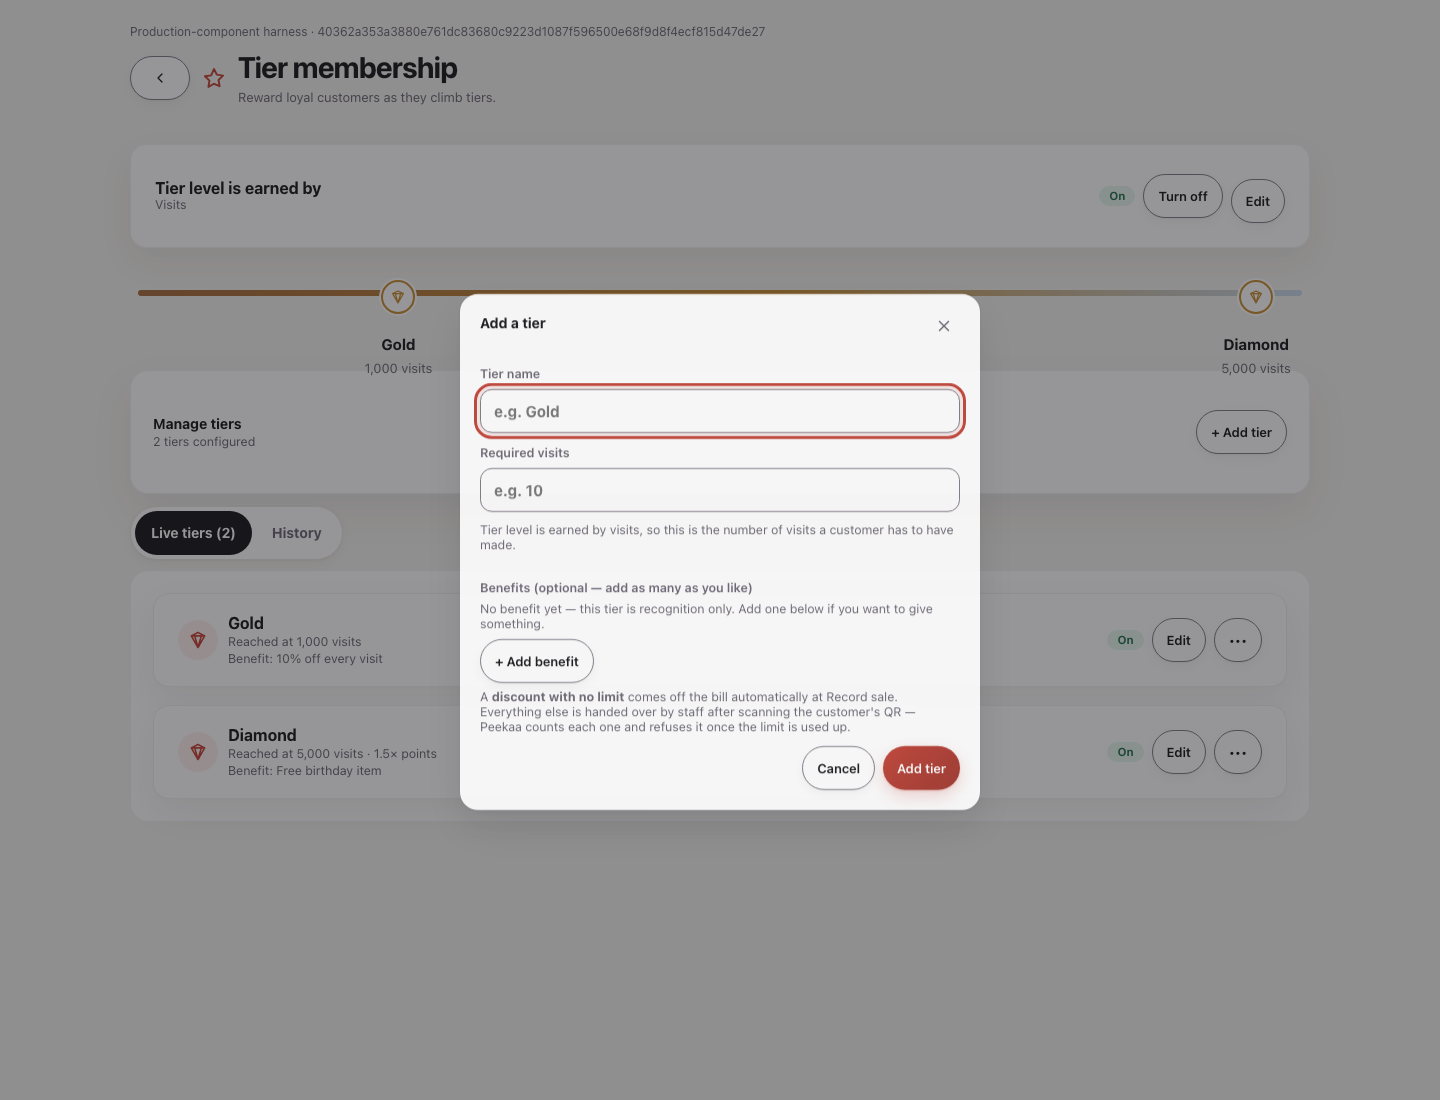
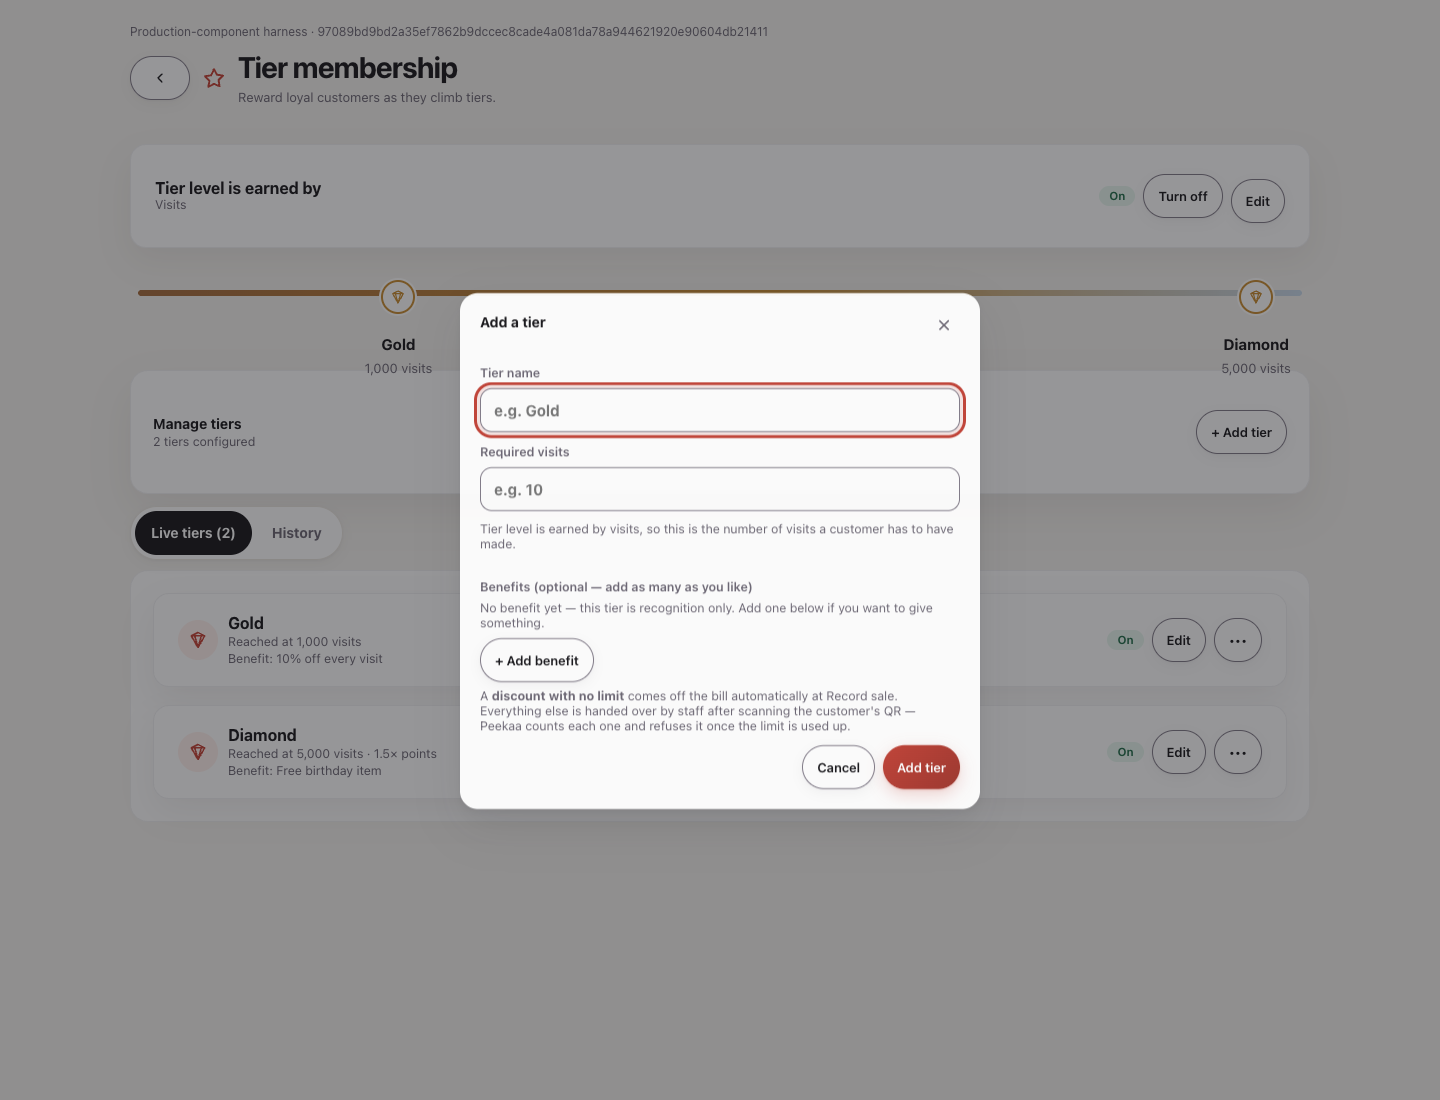
fix(test): nestly_v888 — the v750 tier-dialog measurement runs again, and says why when it cannot
It had been proving nothing. The test skips itself when no Playwright driver
is present, which is how CI runs it, so nobody saw that with a browser present
it timed out after 30 seconds having rendered an empty page. Confirmed
pre-existing by running it at the previous commit.

Two drifts, each hidden behind the next:

1. growPage reads growPageRenderEpoch on its first line. It is declared BELOW
   settingsActiveTab, so the harness's growState slice never contained it and
   every render threw ReferenceError.

2. The programmeSpine slice stopped AT rememberProgrammeSpineV314, so
   refreshProgrammeSpineV314 — two functions further down, and called by
   growPage — was undefined too. Extended to the end of the spine helpers,
   which is where that boundary always belonged.

Then a third, only reachable once the first two were fixed: with
refreshProgrammeSpineV314 finally executing, it read business_programmes,
which fixtureQuery did not answer, and replaced the seeded spine with an empty
list — so the fixture rendered "Tier membership is not set up yet" instead of
the tiers page. The spine rows are now ONE list, read by the seed and by the
stub, because two copies would drift the same way.

The failure mode that hid all of this is fixed too. renderFromHashV421 catches
growPage's error and records it on document.body.dataset.renderError; the test
now reads that FIRST, so drift reports "ReferenceError: growPageRenderEpoch is
[…]

diff --git a/tests/browser/v750-tier-dialog-visual.html b/tests/browser/v750-tier-dialog-visual.html
@@ -1,5 +1,5 @@
 <!doctype html><html lang="en"><head><meta charset="utf-8"><meta name="viewport" content="width=device-width,initial-scale=1"><link rel="icon" href="data:,">
[2 lines of base64/hex data omitted]
 /* ============================================================================
    Frenly design system v2 — "mockup layout, iOS polish" (owner ruling 2026-07-18)
    Principles: 8pt grid · SF-grade type with tight optical tracking · hairline
@@ -5842,7 +5842,7 @@ html[data-customer-theme="dark"] .customer-celebration-icon-v468{background:#4A3
 .subscription-company-v628{margin:0;min-width:0}
 
     body{padding:24px}.visual-shell{max-width:1180px;margin:0 auto}.visual-provenance{margin:0 0 10px;color:var(--muted);font-size:12px;overflow-wrap:anywhere}
-    @media(max-width:600px){body{padding:12px}}</style></head><body><div class="visual-shell"><p class="visual-provenance">Production-component harness · ad2c4042465599014a4a30e05551aacc62199f8e91cc7668a8cbffa5c397bf17</p><main id="main"></main></div>
+    @media(max-width:600px){body{padding:12px}}</style></head><body><div class="visual-shell"><p class="visual-provenance">Production-component harness · 97089bd9bd2a35ef7862b9dccec8cade4a081da78a944621920e90604db21411</p><main id="main"></main></div>
     <script>(function customerUiFactory(global){
   'use strict';
 
@@ -6560,7 +6560,23 @@ function pruneRewardSiblingsV139(root){
        runs that bootstrap, so it is set directly here — a live 'tiers' row, matching the shape
        programmeSpineRowV428 produces (kind/active), which is what programmeSpineOnV314('tiers')
        and liveLoyaltyModelKeysV240 both key off. */
-    S.programmes=[{kind:'tiers',active:true},{kind:'points',active:false},{kind:'stamps',active:false},{kind:'referral',active:true}];
+    /* nestly_v888: ONE definition of the spine, read by the seed here AND by the
+       business_programmes case in fixtureQuery below. Until v888 the production
+       refreshProgrammeSpineV314 was never extracted into this harness, so it threw and the seed
+       was never challenged. Now it runs for real — and with no stub for its table it replaced this
+       seed with an empty list, which is why the fixture rendered "Tier membership is not set up
+       yet" instead of the tiers page the test measures. Two copies of this list would drift the
+       same way, silently, so there is one.
+       Shaped like the real row (id/kind/active/deactivated_at). The seed is NOT mapped through
+       production's programmeSpineRowV428: that is a const injected further down this script, so
+       reading it here is a temporal dead zone. refreshProgrammeSpineV314 maps these same rows
+       through it moments later anyway, which is the read that ends up mattering. */
+    const FIXTURE_PROGRAMME_ROWS_V888=[
+      {id:'spine-tiers',kind:'tiers',active:true,deactivated_at:null},
+      {id:'spine-points',kind:'points',active:false,deactivated_at:null},
+      {id:'spine-stamps',kind:'stamps',active:false,deactivated_at:null},
+      {id:'spine-referral',kind:'referral',active:true,deactivated_at:null}];
+    S.programmes=FIXTURE_PROGRAMME_ROWS_V888.map(row=>({...row,active:row.active===true}));
     S.programmesBusinessId=S.biz.id;
     /* Real production value (app/app.js): gates Memberships out of growTopicDefsV229. Declared,
        not extracted, because it is a one-line literal with nothing else worth pulling in around
@@ -6614,6 +6630,7 @@ function pruneRewardSiblingsV139(root){
       const query={select(){return query},eq(column,value){state.equals[column]=value;return query},is(){return query},in(){return query},not(){return query},gte(){return query},lte(){return query},order(){return query},limit(){return query},single(){state.single=true;return query},
         then(resolve,reject){window.__tableReads.push(table);let data=[];
           if(table==='businesses')data={active_config_version_id:'published-v1'};
+          else if(table==='business_programmes')data=FIXTURE_PROGRAMME_ROWS_V888;
           else if(table==='loyalty_programs')data=fixture.loyalty?[fixture.loyalty]:[];
           else if(table==='loyalty_rewards')data=fixture.rewards;
           else if(table==='loyalty_tiers')data=fixture.tiers;
@@ -8145,6 +8162,15 @@ let growBbDraftV361={name:'',reward:'',away:'',expiry:''};
 let growBbErrorV361='';
 let growBbBusyV361=false;
 let growBbDeletePendingV361='';
+    /* F039: quiet growPage() re-renders write into the SAME outerMain node (a hard route change is
+   the only thing that ever replaces <main>), so isGrowCurrent()'s outerMain.isConnected/M()===
+   outerMain checks stay true across two overlapping quiet renders regardless of which one
+   started first — a pre-write quiet snapshot fetch that resolves after the post-write one can
+   paint stale data over a fresh "Saved" toast. This counter is bumped on every growPage() entry
+   (quiet or not) and folded into isGrowCurrent so a call whose epoch has been superseded by a
+   newer growPage() invocation always loses, independent of resolution order — the same pattern
+   dashboardRenderEpoch/routeRenderEpoch/portalRenderEpoch already use. */
+let growPageRenderEpoch=0;
     const STATUS_WORDS=Object.freeze({
   on:'On',off:'Off',
   draft:'Draft',scheduled:'Scheduled',live:'Live',ended:'Ended'
@@ -8371,6 +8397,43 @@ function programmeScopeSwitchesV322(scope,{paused=false}={}){
    "never turned off" — the same thing an unread breadcrumb has always meant. */
 const programmeSpineRowV428=row=>({id:row?.id||null,kind:row?.kind||null,active:row?.active===true,
   deactivatedAt:row?.deactivated_at||row?.paused_since||null});
+function rememberProgrammeSpineV314(programmes){
+  if(!Array.isArray(programmes))return false;
+  S.programmes=programmes.map(programmeSpineRowV428);
+  S.programmesBusinessId=S.biz?.id||null;
+  return true;
+}
+async function refreshProgrammeSpineV314(){
+  if(!S.biz?.id)return null;
+  const {data,error}=await sb.from('business_programmes').select('id,kind,active,deactivated_at').eq('business_id',S.biz.id);
+  if(error)return null;
+  S.programmes=(data||[]).map(programmeSpineRowV428);
+  S.programmesBusinessId=S.biz.id;
+  return S.programmes;
+}
+/* The one client-side call site of public.set_programmes_v314. Returns {ok,error,skipped,data} and
+   never throws, because every caller has already done something the owner can see (a draft save,
+   a publish) and must report the switch separately from it.
+   nestly_v429 (B5): `data` is carried out now. v425 added referral_reward_kind_now_unpayable to
+   the reply — "the referral is on, its reward is points or stamps, and that pot is not running" —
+   which is a fact only this reply knows, so swallowing the payload here would lose it. */
+async function writeProgrammeSwitchesV314(businessId,selection,{paused=false,key=null}={}){
+  const switches=programmeSwitchSetV314(selection,{paused});
+  if(!switches||!businessId)return {ok:true,skipped:true,error:null,data:null};
+  const {data,error}=await sb.rpc('set_programmes_v314',{
+    p_business:businessId,p_switches:switches,p_idempotency_key:key||crypto.randomUUID()});
+  if(error)return {ok:false,skipped:false,error,data:null};
+  rememberProgrammeSpineV314(data?.programmes);
+  return {ok:true,skipped:false,error:null,data};
+}
+/* The publish routes' shared rule: apply the switch set IFF the draft being published actually
+   carries a loyalty programme row. A rules-only Studio publish leaves loyalty_programs untouched,
+   so it must leave the spine untouched too. */
+async function applyPublishedProgrammeSwitchesV314({active=null,loyaltyModel=null}={}){
+  if(active===null||active===undefined)return {ok:true,skipped:true,error:null};
+  return writeProgrammeSwitchesV314(S.biz?.id,programmeSwitchesForPublishV314(loyaltyModel),
+    {paused:active!==true});
+}
     function promotionEditorItemV104(raw={}){
   const metadata=raw.metadata||{},cta=metadata.cta||{},
     media=raw.media||raw.media_asset||{};
